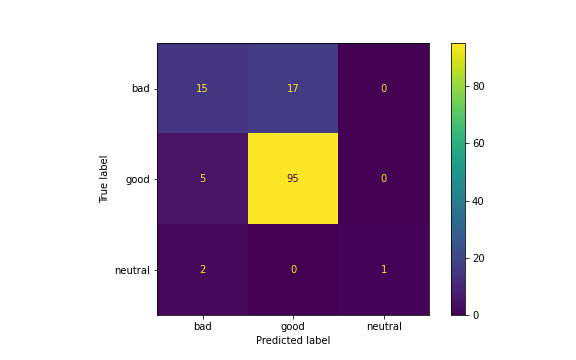
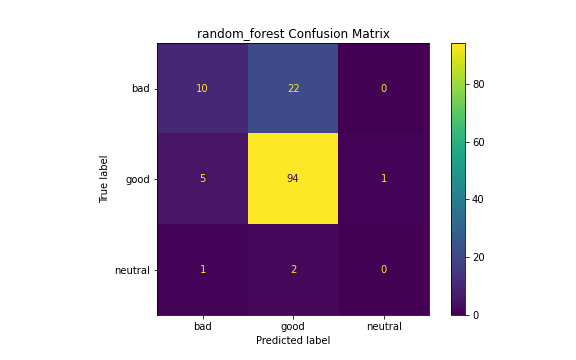
titled plots

diff --git a/model_comparisons.py b/model_comparisons.py
@@ -44,6 +44,8 @@ def metrics(mod, X_t: pd.DataFrame, y_t: pd.DataFrame, y_train: pd.DataFrame, mo
     )
     
     cmp.plot(ax=ax)
+    plt.title(mod_str+" Confusion Matrix")
+
     plt.savefig('Results/' + "confmat_" + mod_str + '.png')
     plt.show()
 
@@ -61,7 +63,7 @@ def metrics(mod, X_t: pd.DataFrame, y_t: pd.DataFrame, y_train: pd.DataFrame, mo
     plt.axis("square")
     plt.xlabel("False Positive Rate")
     plt.ylabel("True Positive Rate")
-    plt.title("One-vs-Rest ROC curves:\nGood vs (Neutral & Bad)")
+    plt.title(mod_str+"\nOne-vs-Rest ROC curves:\nGood vs (Neutral & Bad)")
     plt.legend()
     plt.savefig('Results/' + "ROC_AUC__" + mod_str + '.png')
 
